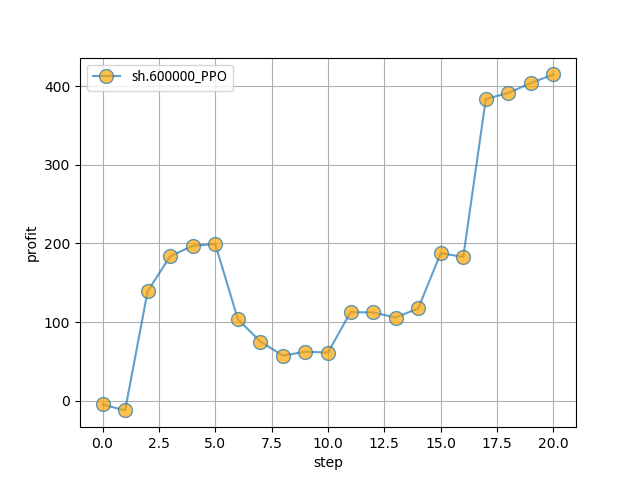
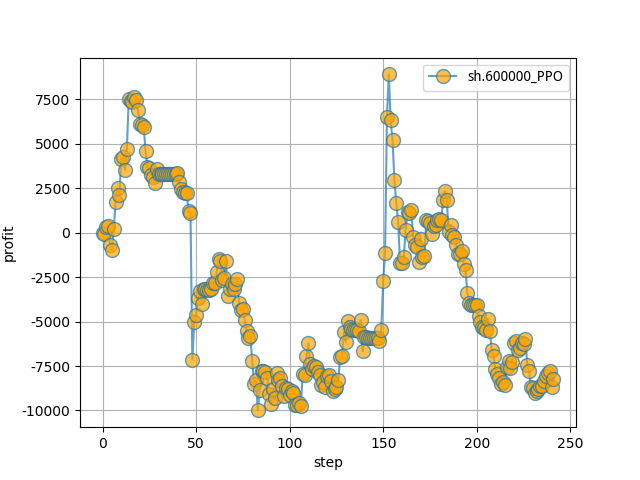
测试集长度设置为1年。

diff --git a/data/get_stock_data_test.py b/data/get_stock_data_test.py
@@ -57,7 +57,7 @@ class Downloader(object):
 
 if __name__ == '__main__':
 
-    codes = ['sh.600000', 'sh.600001']
+    codes = ['sh.600000', 'sh.600006']
     # codes = None  # codes为None下载所有股票数据
 
     # 获取全部股票的日K线数据

diff --git a/data/get_stock_data_train.py b/data/get_stock_data_train.py
@@ -57,7 +57,7 @@ class Downloader(object):
 
 if __name__ == '__main__':
 
-    codes = ['sh.600000', 'sh.600001']
+    codes = ['sh.600000', 'sh.600006']
 
     # 获取全部股票的日K线数据
     datapath_train = './train'

diff --git a/README.md b/README.md
@@ -30,6 +30,7 @@ python main.py
 4. 增加交易手续费
 5. 股票价格后复权
 6. 特征优化
+7. 测试集长度设置为1年
 
 todo:
 - 将特征接口抽出来
@@ -46,8 +47,6 @@ todo:
 - 数据和方法皆来源于网络，本项目开发者无法保证有效性和准确性！
 
 - 股票证券数据集来自于 [baostock](http://baostock.com/baostock/index.php/Python_API%E6%96%87%E6%A1%A3)，一个免费、开源的证券数据平台，提供 Python API。
-
-- 项目中将1990-01-01至2019-11-29的股票数据作为训练集，之后的一个月(2019-12-01至2019-12-31)数据作为测试集
 
 
 ## 🤖 OpenAI Gym 股票交易环境
@@ -116,18 +115,18 @@ reward = 1 if reward > 0 else -100
 
 ## 🕵♀ 单只股票模拟实验结果
 
-- 初始本金 `10000`
+- 初始本金 `100000`
 - 股票代码：`sh.600000`
-- 训练集： `stockdata/train/sh.600000.浦发银行.csv`
-- 测试集： `stockdata/test/sh.600000.浦发银行.csv`
-- 模拟操作 `20` 天
+- 训练集：1990-01-01至2019-12-31
+- 测试集：2020-01-01至2020-12-31
+- 模拟操作 `210` 天
 
 盈利情况:
 
-PPO: 盈利`415`
+PPO: 盈利`-8240`
 <img src="img/sh.600000_PPO.png" alt="drawing" width="70%"/>
 
-A2C: 亏损`534`
+A2C: 盈利`248`
 <img src="img/sh.600000_A2C.png" alt="drawing" width="70%"/>
 
 
